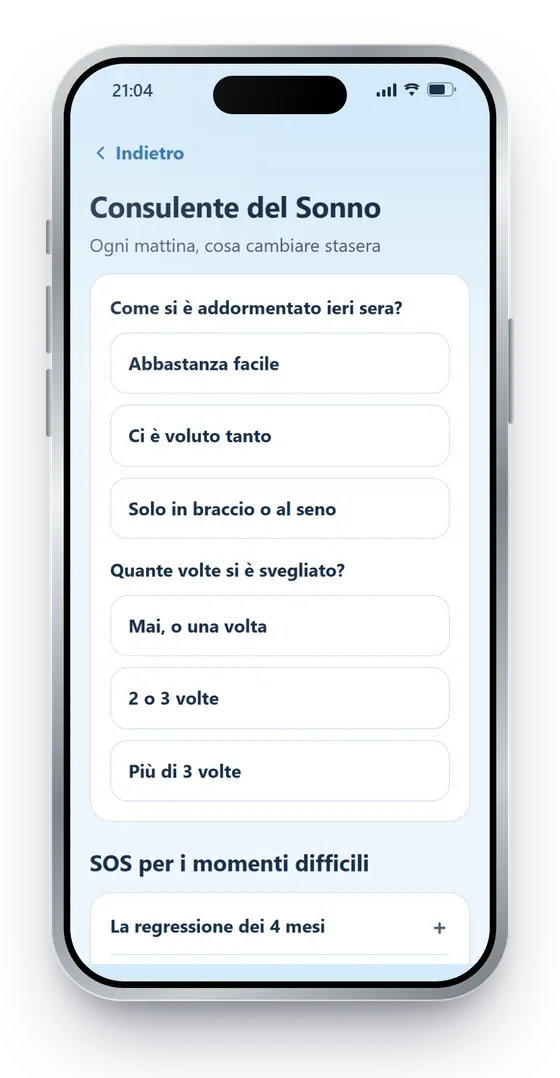
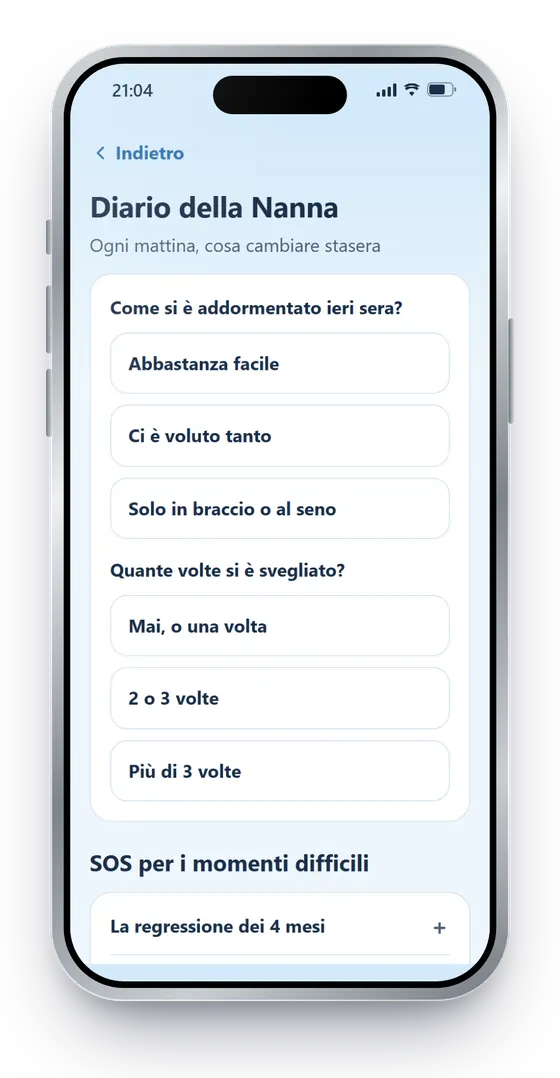
Upsell e acessos com o Diario della Nanna e o Nanna senza seno, local
- /offerta-consulente/ com a copy nova de pagina.md: topo, texto, linha de apoio, 19,90 euros
  sem assinatura, reembolso em 15 dias, botoes sim e nao com o nome novo; mesma URL e mesmos links
- acessos n2icfq e e09m9e e o aviso do front com os nomes novos
- capturas reais do app (home e Diario della Nanna) refeitas no celular
- Nao publicar antes da revisao da Dott.ssa Orlandi

Changed region(s): [[0.1518, 0.1837, 0.6982, 0.2143]]

diff --git a/offerta-consulente/index.html b/offerta-consulente/index.html
@@ -4,7 +4,7 @@
 <meta charset="utf-8">
 <meta name="viewport" content="width=device-width, initial-scale=1">
 <meta name="robots" content="noindex">
-<title>Consulente del Sonno · Nanna Subito</title>
+<title>Diario della Nanna · Nanna Subito</title>
 <link rel="icon" type="image/png" sizes="32x32" href="../img/favicon-32.png">
 <style>
 :root{--fundo:#eef6fc;--cartao:#fff;--tinta:#1b2f4a;--suave:#4a6079;--linha:#d5e6f3;--forte:#2a6fae;--azul:#d3eafa;--lua2:#fdf3dc}*{box-sizing:border-box;margin:0}body{background:var(--fundo);color:var(--tinta);font:17px/1.55 system-ui,-apple-system,"Segoe UI",Roboto,sans-serif}main{max-width:520px;margin:0 auto;padding:30px 20px 56px}h1{font-size:30px;line-height:1.15;letter-spacing:-.01em}p{margin-top:12px}.marca{display:flex;align-items:center;gap:9px;font-weight:800;color:#1f5689;margin-bottom:20px}.marca img{width:30px;height:30px;border-radius:8px}.apri{display:block;text-align:center;text-decoration:none;font-weight:800;font-size:18px;color:#fff;background:var(--forte);border-radius:16px;padding:17px 20px;margin-top:20px;box-shadow:0 12px 26px -12px rgba(42,111,174,.7)}ol{list-style:none;padding:0;margin-top:22px}li{background:var(--cartao);border:1px solid var(--linha);border-radius:18px;padding:16px 18px;margin-top:12px}li b{display:block;font-size:17.5px}li span{color:var(--suave);font-size:15.5px}.pacchetti{margin-top:18px;padding:14px 16px;border:1px dashed #9cc3e6;border-radius:18px;font-size:15.5px;color:var(--suave)}.pacchetti b{color:var(--tinta)}.nota{color:var(--suave);font-size:15px;margin-top:20px}
@@ -15,31 +15,28 @@
 .offerta{background:var(--cartao);border:2px solid var(--forte);border-radius:22px;padding:20px 18px;margin-top:22px}
 .prezzo{font-size:15.5px;color:var(--suave);margin-top:12px}.prezzo b{display:block;font-size:30px;color:var(--tinta)}
 #hotmart-sales-funnel{margin-top:16px;min-height:10px}.reserva[hidden]{display:none}
-.reserva a{display:flex;align-items:center;justify-content:center;width:100%;text-decoration:none;border-radius:16px;text-align:center}
-.reserva .si{margin-top:16px;min-height:58px;background:var(--forte);color:#fff;font-weight:800;font-size:18px}
+.reserva a{display:flex;align-items:center;justify-content:center;width:100%;text-decoration:none;border-radius:16px;text-align:center;padding:10px 16px}
+.reserva .si{margin-top:16px;min-height:58px;background:var(--forte);color:#fff;font-weight:800;font-size:17px}
 .reserva .no{margin-top:10px;min-height:50px;border:1.5px solid var(--linha);background:var(--cartao);color:var(--tinta);font-weight:600;font-size:16px}
 .nota{text-align:center;font-size:14px}
+.apoio{font-size:15.5px;font-weight:700;color:var(--forte)}.micro{font-size:14px;color:var(--suave);margin-top:6px}
 </style>
 </head>
 <body>
-<div class="ok"><b>Pagamento confermato.</b>L'app si apre subito dopo questa pagina.</div>
+<div class="ok"><b>Fatto, il tuo acquisto è confermato.</b>Un attimo ancora e apri Nanna Subito.</div>
 <main>
   <h1>Ancora una cosa, prima di stasera</h1>
-  <p class="suave">Le prime notti vanno meglio. Poi arrivano i dentini, un salto di crescita, la regressione dei 4 mesi, un viaggio, un raffreddore, e si ricomincia da capo.</p>
-  <div class="fone"><img src="../img/app-consulente.webp" alt="Il Consulente del Sonno nell'app" width="560" height="1078"></div>
+  <p class="suave">Nei prossimi mesi arrivano i dentini, un salto di crescita, la regressione dei 4 mesi, un raffreddore, e non sai più se cambiare qualcosa o aspettare. Il Diario della Nanna serve a questo: ogni mattina segni com'è andata la notte con due tocchi, e ti dice cosa cambiare stasera. Dentro c'è anche l'SOS per regressioni (4 mesi, 8-10 mesi, 18 mesi), dentini, salti, viaggi, malattie e cambio dell'ora, fino ai 3 anni.</p>
+  <p class="apoio">Ogni mattina, cosa cambiare stasera · SOS fino ai 3 anni</p>
+  <div class="fone"><img src="../img/app-consulente.webp" alt="Il Diario della Nanna nell'app" width="560" height="1078"></div>
   <div class="offerta">
-    <h2 style="font-size:22px">Consulente del Sonno</h2>
-    <ul class="lista">
-      <li>Ogni mattina segni com'è andata la notte con due tocchi</li>
-      <li>L'app ti dice cosa cambiare stasera</li>
-      <li>SOS per regressioni (4 mesi, 8-10 mesi, 18 mesi), dentini, salti, viaggi e malattie</li>
-      <li>Per togliere le poppate di notte, fino ai 3 anni</li>
-    </ul>
-    <p class="prezzo"><b>19,90 €</b>Una volta sola. Si aggiunge con un tocco, con lo stesso metodo di pagamento.</p>
+    <h2 style="font-size:22px">Diario della Nanna</h2>
+    <p class="prezzo"><b>19,90 €</b>Una volta sola. Nessun abbonamento.</p>
+    <p class="micro">Rimborso entro 15 giorni.</p>
     <div id="hotmart-sales-funnel"></div>
     <div class="reserva" id="reserva" hidden>
-      <a class="si" href="https://pay.hotmart.com/F108290595O?checkoutMode=10">Sì, aggiungi il Consulente del Sonno</a>
-      <a class="no" href="https://nannasubito.com/accesso-7t53it/">No grazie, mi basta l'app</a>
+      <a class="si" href="https://pay.hotmart.com/F108290595O?checkoutMode=10">Sì, aggiungi il Diario della Nanna</a>
+      <a class="no" href="https://nannasubito.com/accesso-7t53it/">No grazie, apro Nanna Subito</a>
     </div>
   </div>
 </main>

diff --git a/accesso-n2icfq/index.html b/accesso-n2icfq/index.html
@@ -3,8 +3,8 @@
 <style>:root{--fundo:#eef6fc;--cartao:#fff;--tinta:#1b2f4a;--suave:#4a6079;--linha:#d5e6f3;--forte:#2a6fae;--azul:#d3eafa;--lua2:#fdf3dc}*{box-sizing:border-box;margin:0}body{background:var(--fundo);color:var(--tinta);font:17px/1.55 system-ui,-apple-system,"Segoe UI",Roboto,sans-serif}main{max-width:520px;margin:0 auto;padding:30px 20px 56px}h1{font-size:30px;line-height:1.15;letter-spacing:-.01em}p{margin-top:12px}.marca{display:flex;align-items:center;gap:9px;font-weight:800;color:#1f5689;margin-bottom:20px}.marca img{width:30px;height:30px;border-radius:8px}.apri{display:block;text-align:center;text-decoration:none;font-weight:800;font-size:18px;color:#fff;background:var(--forte);border-radius:16px;padding:17px 20px;margin-top:20px;box-shadow:0 12px 26px -12px rgba(42,111,174,.7)}ol{list-style:none;padding:0;margin-top:22px}li{background:var(--cartao);border:1px solid var(--linha);border-radius:18px;padding:16px 18px;margin-top:12px}li b{display:block;font-size:17.5px}li span{color:var(--suave);font-size:15.5px}.pacchetti{margin-top:18px;padding:14px 16px;border:1px dashed #9cc3e6;border-radius:18px;font-size:15.5px;color:var(--suave)}.pacchetti b{color:var(--tinta)}.nota{color:var(--suave);font-size:15px;margin-top:20px}</style>
 <title>Il tuo accesso · Nanna Subito</title></head><body><main>
 <div class="marca"><img src="../img/apple-touch-180.png" alt="">Nanna Subito</div>
-<h1>Fatto. Il Consulente del Sonno è tuo.</h1><p>Si sblocca dentro Nanna Subito, insieme a tutta l'app: aprilo dallo stesso telefono.</p>
-<a class="apri" href="https://nannasubito.github.io/app/k8c3vd/">Apri Consulente del Sonno</a>
+<h1>Fatto. Il Diario della Nanna è tuo.</h1><p>Si sblocca dentro Nanna Subito, insieme a tutta l'app: aprilo dallo stesso telefono.</p>
+<a class="apri" href="https://nannasubito.github.io/app/k8c3vd/">Apri Diario della Nanna</a>
 <ol>
 <li><b>1. Tocca il pulsante qui sopra.</b><span>L'app si apre nel browser, senza registrazione e senza scaricare niente.</span></li>
 <li><b>2. Aggiungila alla schermata Home.</b><span>Su iPhone: Condividi, poi "Aggiungi alla schermata Home". Su Android: i tre puntini, poi "Aggiungi a schermata Home". Così la trovi stasera, al buio, con un tocco.</span></li>

diff --git a/accesso-e09m9e/index.html b/accesso-e09m9e/index.html
@@ -3,8 +3,8 @@
 <style>:root{--fundo:#eef6fc;--cartao:#fff;--tinta:#1b2f4a;--suave:#4a6079;--linha:#d5e6f3;--forte:#2a6fae;--azul:#d3eafa;--lua2:#fdf3dc}*{box-sizing:border-box;margin:0}body{background:var(--fundo);color:var(--tinta);font:17px/1.55 system-ui,-apple-system,"Segoe UI",Roboto,sans-serif}main{max-width:520px;margin:0 auto;padding:30px 20px 56px}h1{font-size:30px;line-height:1.15;letter-spacing:-.01em}p{margin-top:12px}.marca{display:flex;align-items:center;gap:9px;font-weight:800;color:#1f5689;margin-bottom:20px}.marca img{width:30px;height:30px;border-radius:8px}.apri{display:block;text-align:center;text-decoration:none;font-weight:800;font-size:18px;color:#fff;background:var(--forte);border-radius:16px;padding:17px 20px;margin-top:20px;box-shadow:0 12px 26px -12px rgba(42,111,174,.7)}ol{list-style:none;padding:0;margin-top:22px}li{background:var(--cartao);border:1px solid var(--linha);border-radius:18px;padding:16px 18px;margin-top:12px}li b{display:block;font-size:17.5px}li span{color:var(--suave);font-size:15.5px}.pacchetti{margin-top:18px;padding:14px 16px;border:1px dashed #9cc3e6;border-radius:18px;font-size:15.5px;color:var(--suave)}.pacchetti b{color:var(--tinta)}.nota{color:var(--suave);font-size:15px;margin-top:20px}</style>
 <title>Il tuo accesso · Nanna Subito</title></head><body><main>
 <div class="marca"><img src="../img/apple-touch-180.png" alt="">Nanna Subito</div>
-<h1>Fatto. Senza seno è tuo.</h1><p>Si sblocca dentro Nanna Subito: aprilo dallo stesso telefono.</p>
-<a class="apri" href="https://nannasubito.github.io/app/h6s2qe/">Apri Senza seno</a>
+<h1>Fatto. Nanna senza seno è tuo.</h1><p>Si sblocca dentro Nanna Subito: aprilo dallo stesso telefono.</p>
+<a class="apri" href="https://nannasubito.github.io/app/h6s2qe/">Apri Nanna senza seno</a>
 <ol>
 <li><b>1. Tocca il pulsante qui sopra.</b><span>L'app si apre nel browser, senza registrazione e senza scaricare niente.</span></li>
 <li><b>2. Aggiungila alla schermata Home.</b><span>Su iPhone: Condividi, poi "Aggiungi alla schermata Home". Su Android: i tre puntini, poi "Aggiungi a schermata Home". Così la trovi stasera, al buio, con un tocco.</span></li>

diff --git a/accesso-7t53it/index.html b/accesso-7t53it/index.html
@@ -10,6 +10,6 @@
 <li><b>2. Aggiungila alla schermata Home.</b><span>Su iPhone: Condividi, poi "Aggiungi alla schermata Home". Su Android: i tre puntini, poi "Aggiungi a schermata Home". Così la trovi stasera, al buio, con un tocco.</span></li>
 <li><b>3. Il link resta anche nell'email di Hotmart.</b><span>Nella conferma d'acquisto trovi il PDF con lo stesso link, per riaprire l'app quando vuoi.</span></li>
 </ol>
-<p class="pacchetti"><b>Hai aggiunto Senza seno, Nel lettino o l'Orologio della Nanna?</b> Ogni pacchetto arriva con la sua email di Hotmart e il suo PDF: apri quel link dallo stesso telefono e il pacchetto si sblocca dentro l'app.</p>
+<p class="pacchetti"><b>Hai aggiunto Nanna senza seno, Nel lettino o l'Orologio della Nanna?</b> Ogni pacchetto arriva con la sua email di Hotmart e il suo PDF: apri quel link dallo stesso telefono e il pacchetto si sblocca dentro l'app.</p>
 <p class="nota">Qualcosa non va? Rispondi all'email di conferma di Hotmart o scrivi all'assistenza indicata lì.</p>
 </main></body></html>

diff --git a/_fonte/pos_compra.py b/_fonte/pos_compra.py
@@ -8,15 +8,15 @@ AQUI = os.path.dirname(os.path.abspath(__file__))
 SITE = os.path.dirname(AQUI)
 APP = 'https://nannasubito.github.io/app/'
 DOMINIO = 'https://nannasubito.com/'
-CK_CONSULENTE = 'https://pay.hotmart.com/F108290595O?checkoutMode=10'  # checkout do Consulente na Hotmart (reserva do widget de 1 clique)
+CK_CONSULENTE = 'https://pay.hotmart.com/F108290595O?checkoutMode=10'  # checkout do Diario della Nanna (ex Consulente del Sonno) na Hotmart (reserva do widget de 1 clique)
 
 # pasta da página de acesso -> (pasta do app, nome, título, texto)
 ACESSOS = {
     'accesso-7t53it': ('p3n8wa', 'Nanna Subito', 'Fatto. Nanna Subito è tua.', "Aprila da qui, dal telefono, e stasera parti dal rituale."),
-    'accesso-e09m9e': ('h6s2qe', 'Senza seno', 'Fatto. Senza seno è tuo.', 'Si sblocca dentro Nanna Subito: aprilo dallo stesso telefono.'),
+    'accesso-e09m9e': ('h6s2qe', 'Nanna senza seno', 'Fatto. Nanna senza seno è tuo.', 'Si sblocca dentro Nanna Subito: aprilo dallo stesso telefono.'),
     'accesso-m16gzm': ('r9l4tm', 'Nel lettino', 'Fatto. Nel lettino è tuo.', 'Si sblocca dentro Nanna Subito: aprilo dallo stesso telefono.'),
     'accesso-dsdduo': ('z5o7ck', 'Orologio della Nanna', "Fatto. L'Orologio della Nanna è tuo.", 'Si sblocca dentro Nanna Subito: aprilo dallo stesso telefono.'),
-    'accesso-n2icfq': ('k8c3vd', 'Consulente del Sonno', 'Fatto. Il Consulente del Sonno è tuo.', 'Si sblocca dentro Nanna Subito, insieme a tutta l\'app: aprilo dallo stesso telefono.'),
+    'accesso-n2icfq': ('k8c3vd', 'Diario della Nanna', 'Fatto. Il Diario della Nanna è tuo.', 'Si sblocca dentro Nanna Subito, insieme a tutta l\'app: aprilo dallo stesso telefono.'),
 }
 FRONT = 'accesso-7t53it'
 
@@ -32,7 +32,7 @@ ESTILO = (':root{--fundo:#eef6fc;--cartao:#fff;--tinta:#1b2f4a;--suave:#4a6079;-
 
 
 def acesso(pasta, nome, titulo, texto, front):
-    pac = ('<p class="pacchetti"><b>Hai aggiunto Senza seno, Nel lettino o l\'Orologio della Nanna?</b> Ogni pacchetto arriva con la sua '
+    pac = ('<p class="pacchetti"><b>Hai aggiunto Nanna senza seno, Nel lettino o l\'Orologio della Nanna?</b> Ogni pacchetto arriva con la sua '
            'email di Hotmart e il suo PDF: apri quel link dallo stesso telefono e il pacchetto si sblocca dentro l\'app.</p>') if front else ''
     return f'''<!doctype html><html lang="it"><head><meta charset="utf-8"><meta name="viewport" content="width=device-width, initial-scale=1"><meta name="robots" content="noindex, nofollow"><link rel="icon" type="image/png" sizes="32x32" href="../img/favicon-32.png">
 <!-- obrigado da Hotmart: ela não manda o link do app, então o acesso abre daqui, na hora -->
@@ -58,7 +58,7 @@ UPSELL = f'''<!doctype html>
 <meta charset="utf-8">
 <meta name="viewport" content="width=device-width, initial-scale=1">
 <meta name="robots" content="noindex">
-<title>Consulente del Sonno · Nanna Subito</title>
+<title>Diario della Nanna · Nanna Subito</title>
 <link rel="icon" type="image/png" sizes="32x32" href="../img/favicon-32.png">
 <style>
 {ESTILO}
@@ -69,31 +69,28 @@ UPSELL = f'''<!doctype html>
 .offerta{{background:var(--cartao);border:2px solid var(--forte);border-radius:22px;padding:20px 18px;margin-top:22px}}
 .prezzo{{font-size:15.5px;color:var(--suave);margin-top:12px}}.prezzo b{{display:block;font-size:30px;color:var(--tinta)}}
 #hotmart-sales-funnel{{margin-top:16px;min-height:10px}}.reserva[hidden]{{display:none}}
-.reserva a{{display:flex;align-items:center;justify-content:center;width:100%;text-decoration:none;border-radius:16px;text-align:center}}
-.reserva .si{{margin-top:16px;min-height:58px;background:var(--forte);color:#fff;font-weight:800;font-size:18px}}
+.reserva a{{display:flex;align-items:center;justify-content:center;width:100%;text-decoration:none;border-radius:16px;text-align:center;padding:10px 16px}}
+.reserva .si{{margin-top:16px;min-height:58px;background:var(--forte);color:#fff;font-weight:800;font-size:17px}}
 .reserva .no{{margin-top:10px;min-height:50px;border:1.5px solid var(--linha);background:var(--cartao);color:var(--tinta);font-weight:600;font-size:16px}}
 .nota{{text-align:center;font-size:14px}}
+.apoio{{font-size:15.5px;font-weight:700;color:var(--forte)}}.micro{{font-size:14px;color:var(--suave);margin-top:6px}}
 </style>
 </head>
 <body>
-<div class="ok"><b>Pagamento confermato.</b>L'app si apre subito dopo questa pagina.</div>
+<div class="ok"><b>Fatto, il tuo acquisto è confermato.</b>Un attimo ancora e apri Nanna Subito.</div>
 <main>
   <h1>Ancora una cosa, prima di stasera</h1>
-  <p class="suave">Le prime notti vanno meglio. Poi arrivano i dentini, un salto di crescita, la regressione dei 4 mesi, un viaggio, un raffreddore, e si ricomincia da capo.</p>
-  <div class="fone"><img src="../img/app-consulente.webp" alt="Il Consulente del Sonno nell'app" width="560" height="1078"></div>
+  <p class="suave">Nei prossimi mesi arrivano i dentini, un salto di crescita, la regressione dei 4 mesi, un raffreddore, e non sai più se cambiare qualcosa o aspettare. Il Diario della Nanna serve a questo: ogni mattina segni com'è andata la notte con due tocchi, e ti dice cosa cambiare stasera. Dentro c'è anche l'SOS per regressioni (4 mesi, 8-10 mesi, 18 mesi), dentini, salti, viaggi, malattie e cambio dell'ora, fino ai 3 anni.</p>
+  <p class="apoio">Ogni mattina, cosa cambiare stasera · SOS fino ai 3 anni</p>
+  <div class="fone"><img src="../img/app-consulente.webp" alt="Il Diario della Nanna nell'app" width="560" height="1078"></div>
   <div class="offerta">
-    <h2 style="font-size:22px">Consulente del Sonno</h2>
-    <ul class="lista">
-      <li>Ogni mattina segni com'è andata la notte con due tocchi</li>
-      <li>L'app ti dice cosa cambiare stasera</li>
-      <li>SOS per regressioni (4 mesi, 8-10 mesi, 18 mesi), dentini, salti, viaggi e malattie</li>
-      <li>Per togliere le poppate di notte, fino ai 3 anni</li>
-    </ul>
-    <p class="prezzo"><b>19,90 €</b>Una volta sola. Si aggiunge con un tocco, con lo stesso metodo di pagamento.</p>
+    <h2 style="font-size:22px">Diario della Nanna</h2>
+    <p class="prezzo"><b>19,90 €</b>Una volta sola. Nessun abbonamento.</p>
+    <p class="micro">Rimborso entro 15 giorni.</p>
     <div id="hotmart-sales-funnel"></div>
     <div class="reserva" id="reserva" hidden>
-      <a class="si" href="{CK_CONSULENTE}">Sì, aggiungi il Consulente del Sonno</a>
-      <a class="no" href="{DOMINIO}{FRONT}/">No grazie, mi basta l'app</a>
+      <a class="si" href="{CK_CONSULENTE}">Sì, aggiungi il Diario della Nanna</a>
+      <a class="no" href="{DOMINIO}{FRONT}/">No grazie, apro Nanna Subito</a>
     </div>
   </div>
 </main>
@@ -120,4 +117,4 @@ for pasta, (app, nome, titulo, texto) in ACESSOS.items():
     open(os.path.join(SITE, pasta, 'index.html'), 'w', encoding='utf-8', newline='\n').write(acesso(app, nome, titulo, texto, pasta == FRONT))
 os.makedirs(os.path.join(SITE, 'offerta-consulente'), exist_ok=True)
 open(os.path.join(SITE, 'offerta-consulente', 'index.html'), 'w', encoding='utf-8', newline='\n').write(UPSELL)
-print('ok:', len(ACESSOS), 'acessos + offerta-consulente | checkout do Consulente:', CK_CONSULENTE)
+print('ok:', len(ACESSOS), 'acessos + offerta-consulente | checkout do Diario della Nanna:', CK_CONSULENTE)
